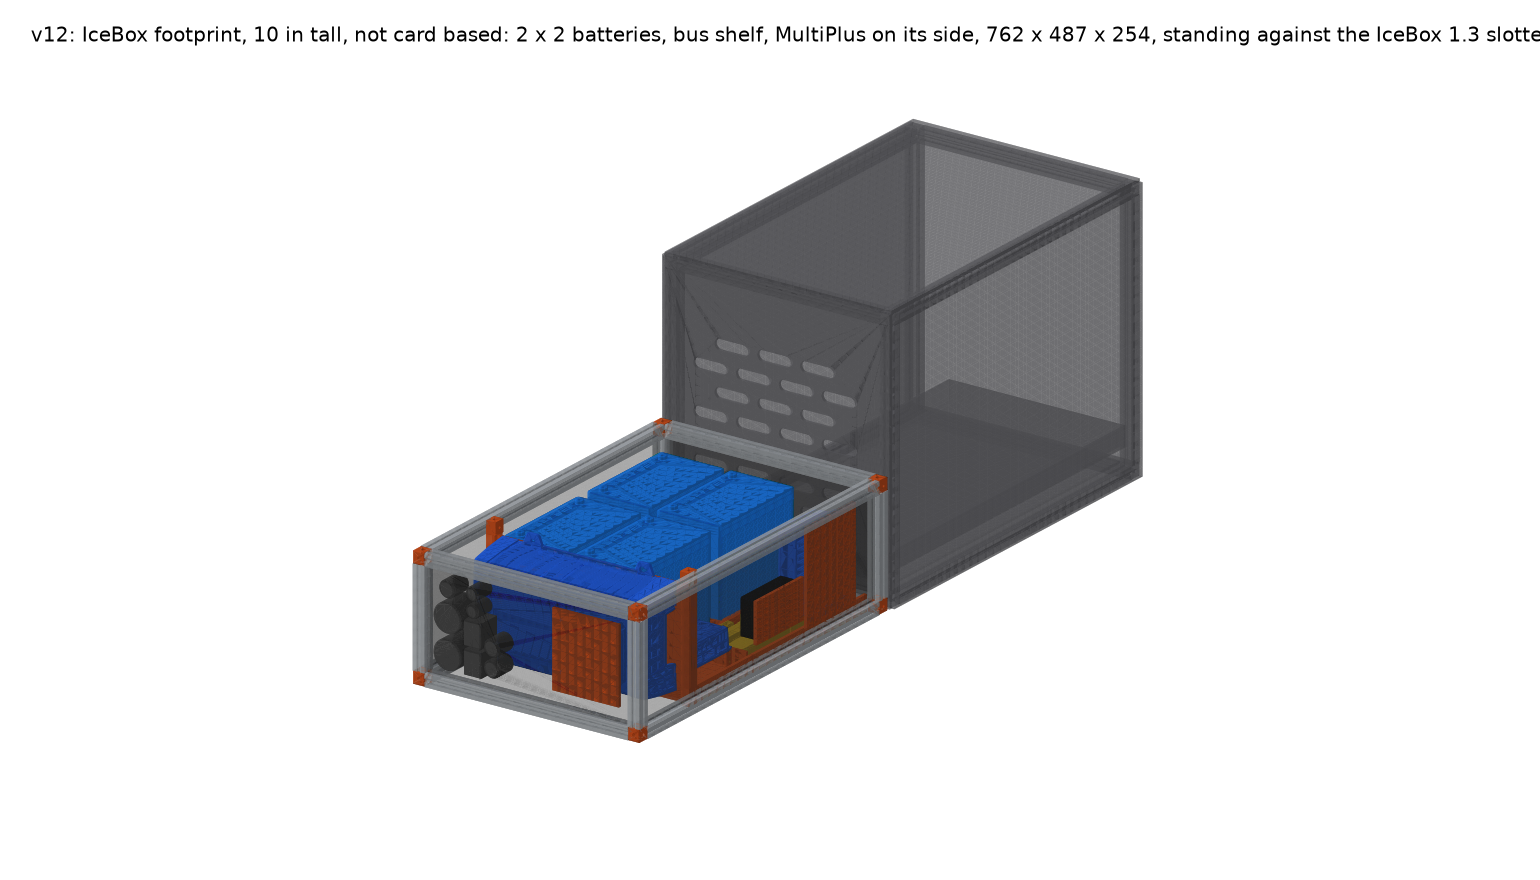
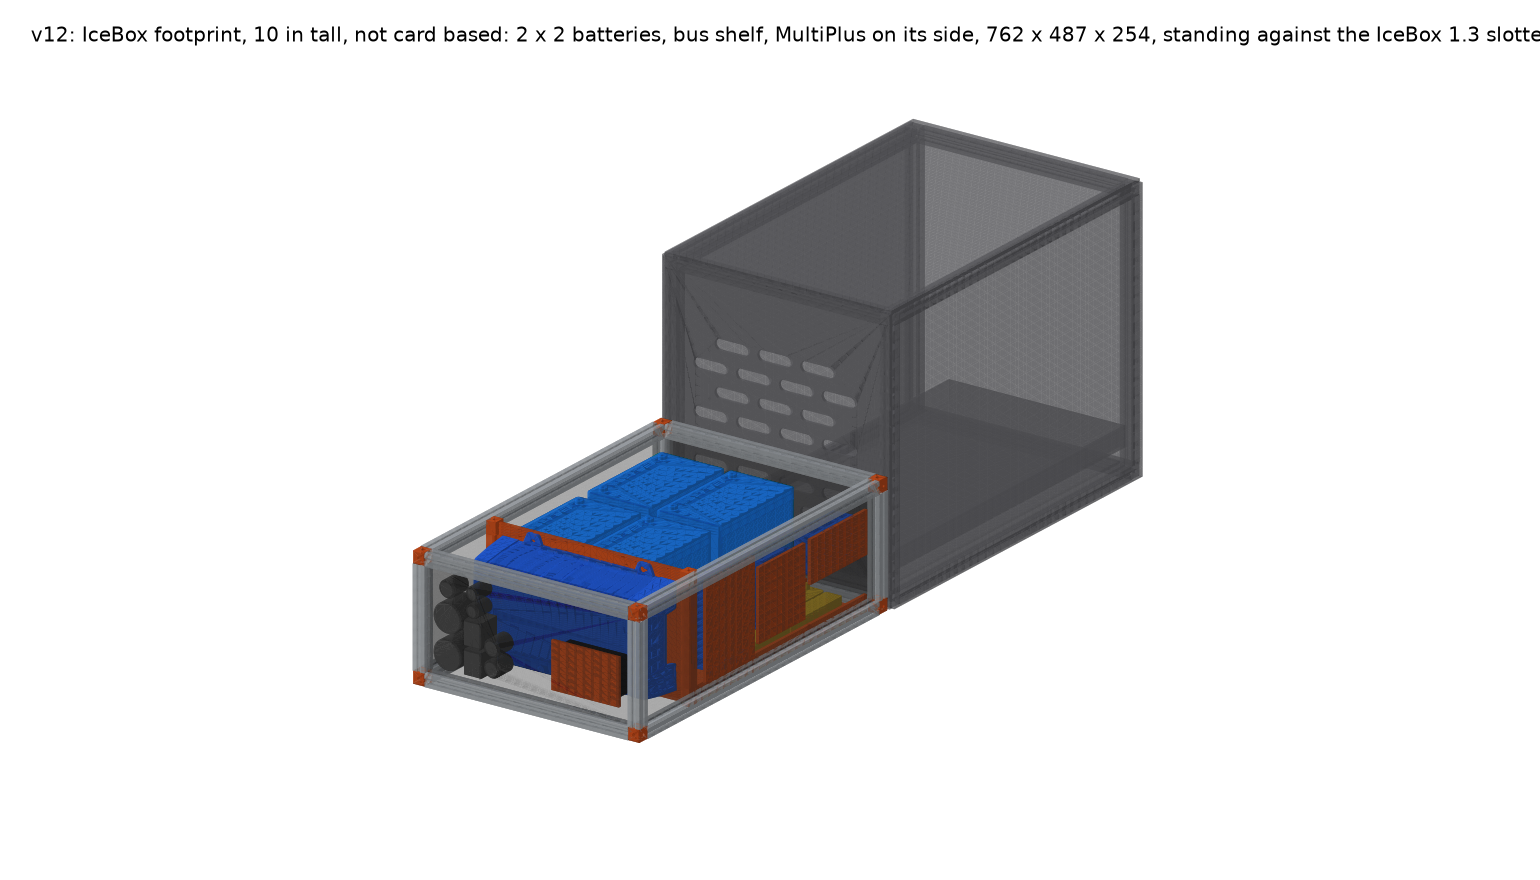
README: v12 is the primary candidate; v12 printing notes; refreshed renders

Changed region(s): [[0.3117, 0.583, 0.561, 0.767], [0.3429, 0.675, 0.4052, 0.767]]

diff --git a/battery-box/README.md b/battery-box/README.md
@@ -2,7 +2,7 @@
 
 **Vehicle:** Toyota 4Runner, Goose Gear plate system
 **Replaces:** the plywood battery box that sits on the plate against the IceBox 1.3 slotted back panel
-**Status:** v7 is the current direction (narrow, your SuperPack 60Ah, lengthwise cards); v4 (`cage-v4-cube`), v5 and v6 are kept as versions. 8 mod kits ordered; cargo-ceiling height still to measure (2026-10-04)
+**Status (2026-10-12): v12 is the primary candidate** (IceBox footprint, 10 in tall, not card based; see [Versions](#versions) and its [printing notes](#v12-printing-notes)). v11 (17.25 in deep, card based) is the runner-up; v9/v10 and the earlier cube/bookshelf versions are kept for reference. The 4 mod kits were returned; the frame comes from one second IceBox 1.3. Cargo-ceiling height still to measure.
 
 **Goal:** a cube built from **12 uncut Goose Gear mod-kit bars**. Each bar is the IceBox 1.3 width rail (~437 mm), so the frame is 487.4 mm in every direction: the IceBox's exact width, 71 mm shorter than the IceBox, standing against its slotted back panel. It holds **four SuperPacks** (three upright, one on its long side above them), and everything else is on cards that drop in from the top, with the distribution card right behind the front panel so the output runs are short. Same look (1" extrusion frame, black corner cubes, black panels), 3D-printed interior, **no off-the-shelf extrusion and no saw cuts**.
 
@@ -16,7 +16,7 @@
 
 ## Versions
 
-**v9 (current): v8 plus a fixed bus deck, so every card unplugs and lifts out alone** (`python cage.py v9`)
+**v9 (kept for reference): v8 plus a fixed bus deck, so every card unplugs and lifts out alone** (`python cage.py v9`)
 
 The problem with v8: the battery leads run under card 3, through card 2, up to the bus bars on card 1, so no card comes out without its neighbours. v9 moves everything that is wired to more than one card off the cards:
 
@@ -146,7 +146,7 @@ Depth chain: bay 268 | gap 10 | inverter card 6 + 10 + 101 | front 8 = 403 inner
 
 `cage.py v10 --pack=bars` still builds the earlier bar-frame version (329 × 353 × 359, height rails = the IceBox offcuts, 4 kits for the rest) if the printed cage turns out not to be wanted.
 
-**v12: 10 in tall IceBox footprint, not card based** (`python cage.py v12`, viewer "v12")
+**v12 (primary candidate): 10 in tall IceBox footprint, not card based** (`python cage.py v12`, viewer "v12")
 
 v5's idea (a second IceBox 1.3 frame, same width and depth as the IceBox) cut down to **762 × 487 × 254 mm, 10.0 in tall**, 12 in below the IceBox deck. The height is set by the MultiPlus on its long side, 249 mm plus the plate it stands on, and the top rails do not limit it because they only run along the edges: the inverter and the batteries sit between them, directly under the lid (the batteries with their lugs end 18 mm under it). At 10 in nothing needs to lift out, so there are no cards, no deck, no legs and no shelves: lid off and every unit is in reach. The same principles carry over: printed trays tabbed to the rails so the box lifts as a unit, the Blue Sea 7148 breakers, 30 mm of lug room, inserts everywhere and no loose nuts inside, every print under 256 mm.
 
@@ -159,6 +159,25 @@ v5's idea (a second IceBox 1.3 frame, same width and depth as the IceBox) cut do
 | Inboard side panel inside | the Cerbo (long edges horizontal, plugs out the top and bottom edges), the Orion and the MPPT **upright** (186 tall, terminals down, as Victron asks) on printed mounts over the bus shelf, lugs to the panel; 508 mm of wall between the back corner and the inverter posts takes their 174 + 143 + 150 mm mounts |
 
 **Rail slots.** The IceBox's panels are captured in the rails' centreline slots, so the top and bottom slots of every rail are taken and only the inner-face slot is free. Every tie in v12 is therefore a horizontal 1/4-20 into a rail's inner slot: countersunk through the outboard trays' outer walls and the bus shelf's outer wall with the heads flush inside, through the posts' solid sills, and through printed clips on the posts' tops into the top rails. The panels sit inside the bar envelope, 3 mm into each slot. Panel-mounted units hang on 6 mm printed mounts screwed through the panel from outside into inserts, and are fed by SB50 pigtails, so a panel unbolts complete with its units. The MultiPlus on its long side is allowed by Victron with the terminals facing down or sideways; here they face the column. The frame is one IceBox 1.3: width and depth rails uncut, height rails cut to 203, leaving four 305 mm offcuts.
+
+<a id="v12-printing-notes"></a>
+**v12 printing notes** (all parts in `stl/v12/`, regenerated by `python cage.py v12`; the bed check in the export fails the build if anything outgrows 256 mm)
+
+| Part | Size (mm) | On the bed | Material and settings |
+|---|---|---|---|
+| 4 battery trays | 253 × 162 × 34 | flat, floor down, brim | PETG or ASA, 5 walls, 40 % infill minimum (the floors carry 7.5 kg each; 100 % infill on the floor is cheap insurance) |
+| 3 bus shelf plates | 174 × 135 × 34 | flat, brim | PETG or ASA, 4 walls, 30 % |
+| 2 inverter plate tiles | 210 × 250 × 6 | flat on the face, brim; 6 mm spare on the bed, so no scaling | PETG or ASA, 4 walls, 30 %; 3 splines in the lap pockets |
+| 2 inverter posts | 229 × 24 × 18 | on a side | PETG or ASA, 5 walls, 50 % (the slot and the sill take the plate's weight) |
+| 2 post clips | 25 × 24 × 20 | as modelled | same as the posts |
+| 5 panel mounts (Garmin, Cerbo, Orion, MPPT, plus the port strip backer) | up to 194 × 150 × 6 | flat | PETG, 4 walls, 30 % |
+| 4 corner cubes, 2 lid handles | small | as modelled | PETG, 4 walls, 30 % |
+
+- **Not PLA.** The trays and shelf plates sit in a closed truck in summer; PLA creeps under the battery load. PETG is enough everywhere, ASA if the printer has an enclosure.
+- **Orientation matters for the trays and posts.** The trays print floor down so the bolt holes in their walls load along the layers, not across them. The posts print on a side for the same reason: the plate's slot and the sill bolt then load across whole layers.
+- **Heat-set inserts** go in after printing: M4 in the tray corner pads and the shelf lips, M4 in the panel mounts, M6 for the MultiPlus. No nut is ever needed inside the assembled box; the only nuts are the rail T-nuts, fitted from the rail ends before the corner cubes go on.
+- **Lifting.** The box lifts by its bottom rails. The load path is tray wall → 1/4-20 → rail inner slot (outboard trays), and tray → M5 neighbour → shelf lip → 1/4-20 → rail (inboard trays). At a 3 g bump that is about 240 N per tray on a pair of bolts, roughly 3 MPa bearing on a 6 mm printed wall. Never lift by the lid.
+- **Budget:** about 3 kg of filament and 40 h for the trays, shelf, plate and posts; the panels are 6 mm sheet, not printed, in this version.
 
 **v11: v10 swapped, 431 mm deep (17.0 in)** (`python cage.py v11`, viewer "v11")
 
@@ -415,6 +434,7 @@ Change a number in `P`, `COMPONENTS`, `FLOOR_LAYOUT` or `CARD_LAYOUT`, re-run, a
 |---|---|
 | 2026-10-04 | Project started. Identified components from photos, pulled datasheet dims, built parametric CadQuery model with drop-in card, printed-part STLs, renders and web viewer. Four Goose Gear mod kits on order. |
 | 2026-10-04 | Owner confirmed the list: 2 × SuperPack 60Ah, MultiPlus 12/800/35, MPPT 100/30 with Anderson solar ingress, Cerbo, Orion XS 12/12-50, SmartShunt, Garmin PowerSwitch, battery breakers, 6 AWG. Dropped the unidentified parts. Added the IceBox 1.3 to the model and switched the frame to kit bars + printed rails. |
+| 2026-10-12 | **v12 made the primary candidate.** Printing notes (materials, orientation, inserts, lifting load path) added to its section. |
 | 2026-10-12 | v12: Garmin moved to the front panel beside the external ports it feeds; the Orion joins the MPPT on the inboard wall and the Cerbo goes there too (fits with 41 mm spare). The inverter plate's top corners are notched around the post clips. |
 | 2026-10-12 | v12 inverter plate raised to 250 mm so the MultiPlus's top tabs bolt to it: the plate stands 21 mm above the 229 mm posts in the rail-free middle, with its top corners notched around the post clips. Cerbo laid flat on a pedestal, Orion turned lugs-to-mount. |
 | 2026-10-12 | v12 lowered from 279 to **254 mm (10 in)**: the top rails only run along the edges, so the MultiPlus and batteries in the middle are limited by the lid, not the rails. Ports re-stacked in three columns and the MPPT mount shortened to stay under the rails. |
